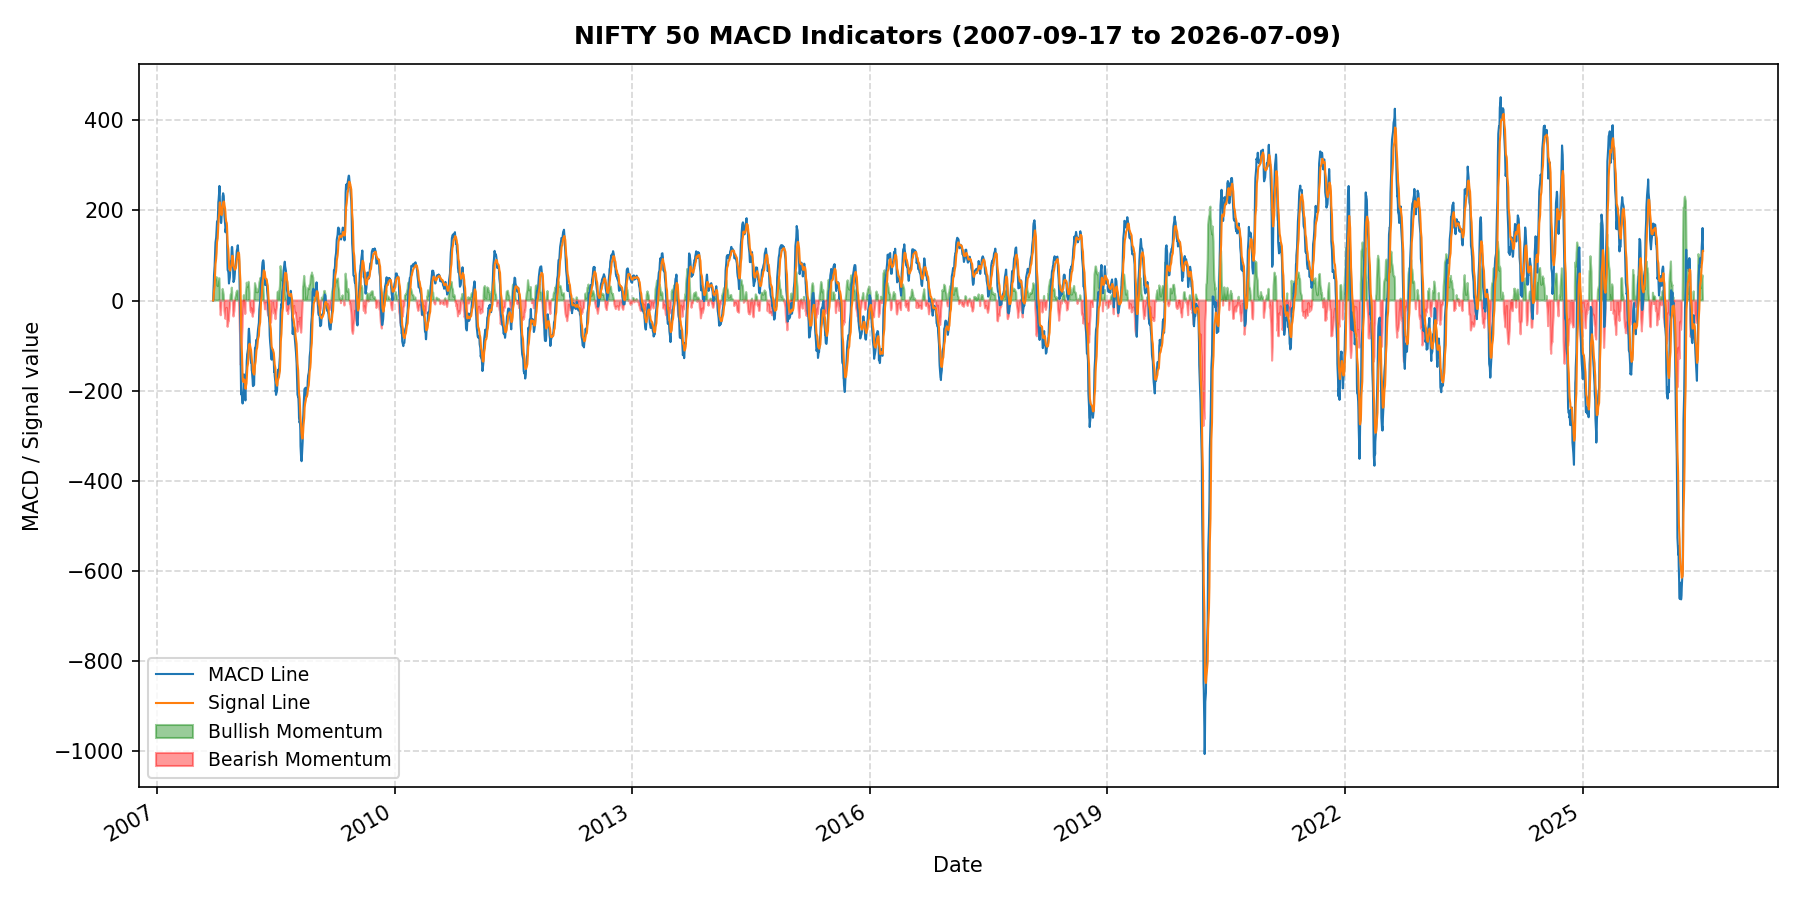
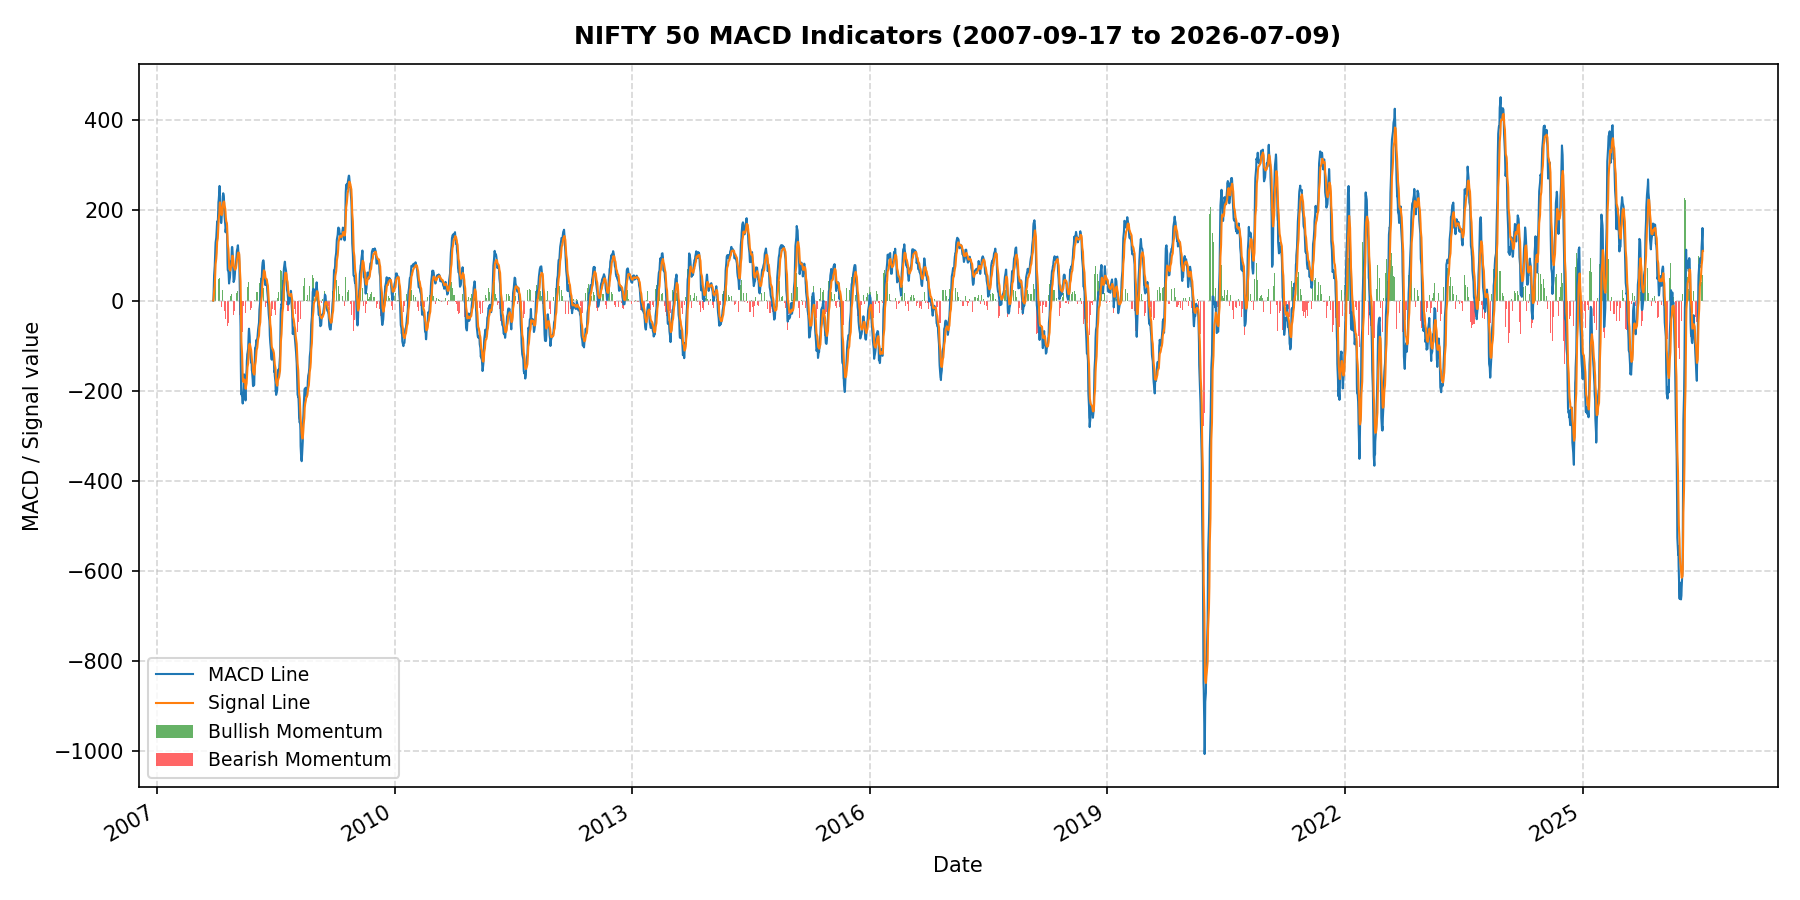
fix(eda): change MACD histogram from shaded fill to bar charts to match standard TA convention

Changed region(s): [[0.0933, 0.2489, 0.9644, 0.4044], [0.0622, 0.8089, 0.1244, 0.8711]]

diff --git a/src/eda/visualizer.py b/src/eda/visualizer.py
@@ -175,17 +175,20 @@ class Visualizer:
         return str(out_path)
 
     def plot_macd(self) -> str:
-        """Plots MACD lines alongside bullish/bearish momentum histogram overlays."""
+        """Plots MACD lines alongside bullish/bearish momentum histogram bars."""
         df = self.features_data.sort_values(self.date_column)
         fig, ax = plt.subplots(figsize=self.figure_size)
         
         ax.plot(df[self.date_column], df['MACD'], color='#1f77b4', linewidth=1.0, label='MACD Line')
         ax.plot(df[self.date_column], df['MACD_Signal'], color='#ff7f0e', linewidth=1.0, label='Signal Line')
         
-        # Color-coded momentum shading (instead of heavy rendering bars)
+        # Color-coded momentum bar chart (standard MACD histogram)
         hist = df['MACD_Hist']
-        ax.fill_between(df[self.date_column], hist, 0, where=(hist >= 0), color='green', alpha=0.4, label='Bullish Momentum')
-        ax.fill_between(df[self.date_column], hist, 0, where=(hist < 0), color='red', alpha=0.4, label='Bearish Momentum')
+        pos_mask = hist >= 0
+        neg_mask = hist < 0
+        
+        ax.bar(df[self.date_column][pos_mask], hist[pos_mask], width=1.0, color='green', alpha=0.6, label='Bullish Momentum')
+        ax.bar(df[self.date_column][neg_mask], hist[neg_mask], width=1.0, color='red', alpha=0.6, label='Bearish Momentum')
         
         min_date = df[self.date_column].min().strftime('%Y-%m-%d')
         max_date = df[self.date_column].max().strftime('%Y-%m-%d')